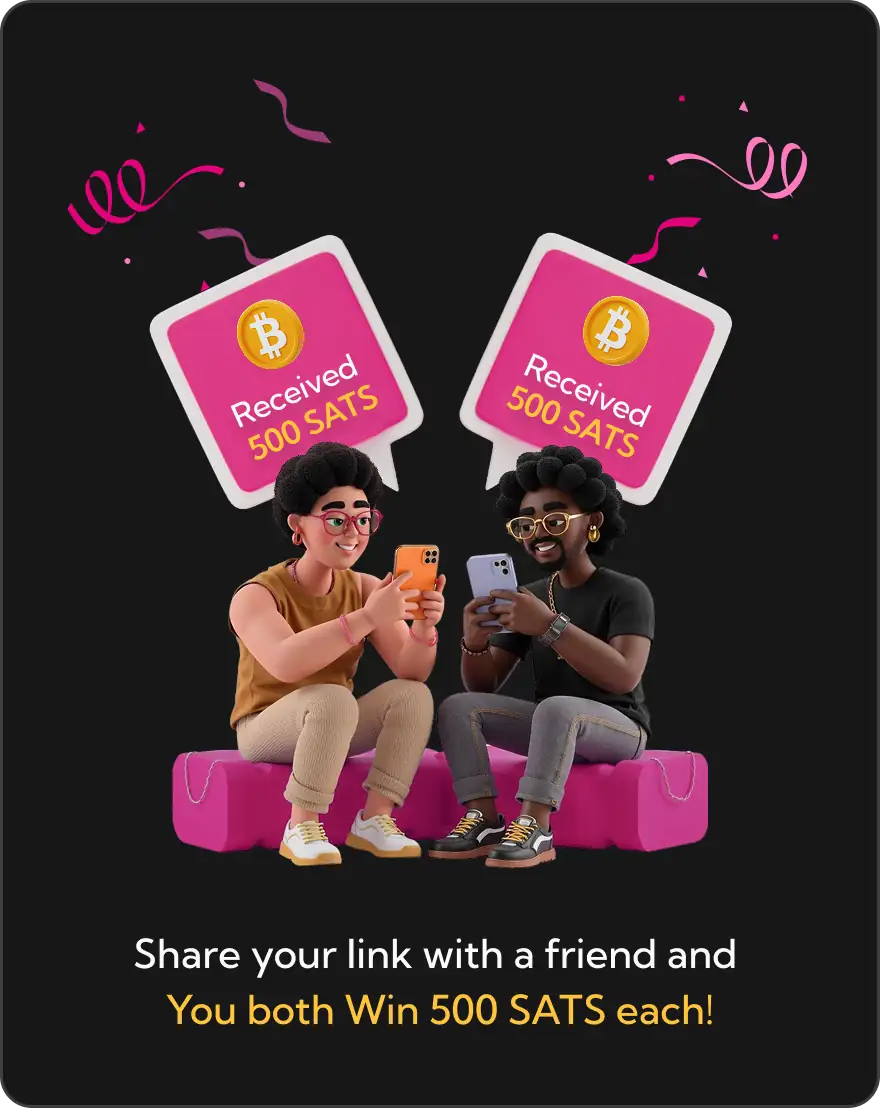
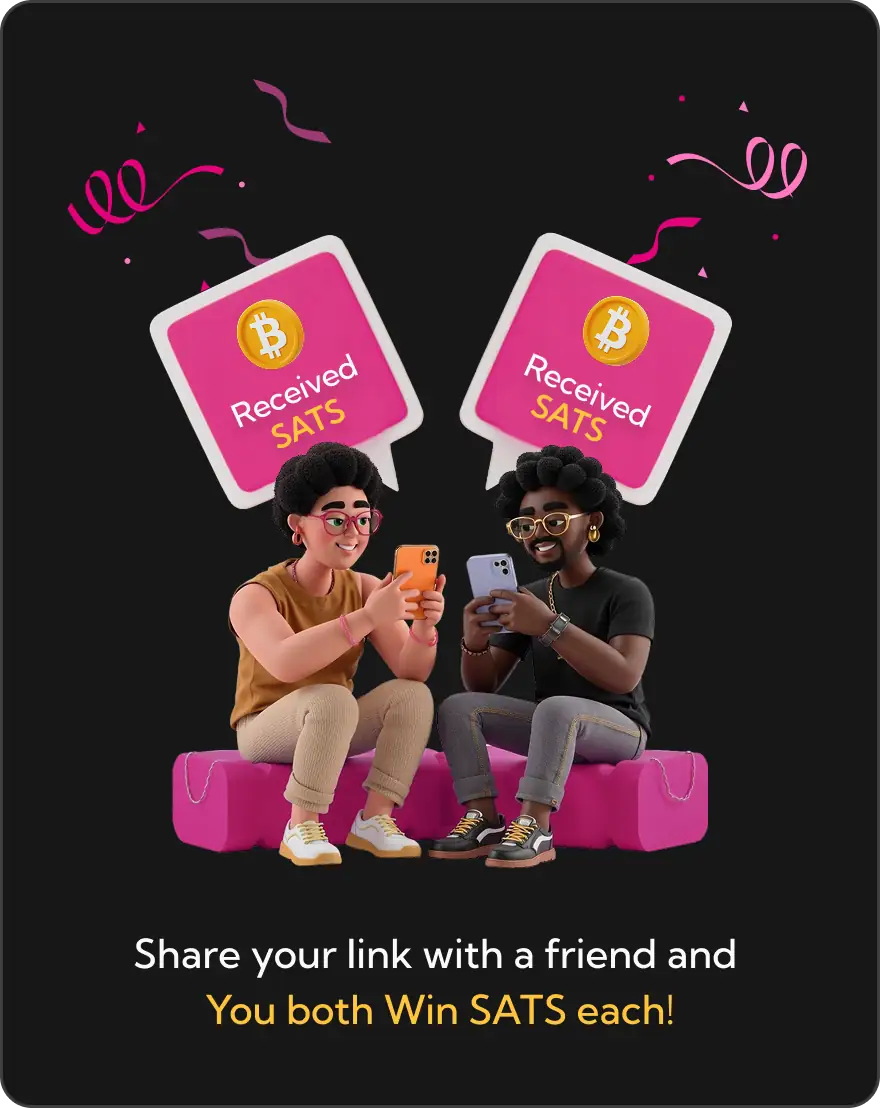
Update opengraph image for referral (#889)
* fix design

* update img

* update img

Changed region(s): [[0.1841, 0.8899, 0.7977, 0.9513], [0.583, 0.3375, 0.7364, 0.4296], [0.2761, 0.3375, 0.4295, 0.4296]]

diff --git a/ssr/src/page/src/refer_earn/mod.rs b/ssr/src/page/src/refer_earn/mod.rs
@@ -157,11 +157,11 @@ fn ReferView() -> impl IntoView {
     Refer.send_event(auth_state.event_ctx());
 
     view! {
-        <div class="flex flex-col w-full h-full items-center text-white gap-10">
+        <div class="flex flex-col w-full h-full items-center text-white gap-5">
             <div class="absolute inset-x-0 top-0 z-0 w-full max-w-md mx-auto" style="filter: blur(1.5px);">
                 <img src="/img/common/refer-bg.webp" class="w-full object-cover" />
             </div>
-            <div style="height: 19rem;" class="flex z-[1] relative justify-center w-full items-center gap-4 overflow-visible">
+            <div style="height: 14rem;" class="flex z-[1] relative justify-center w-full items-center gap-4 overflow-visible">
                 <img class="shrink-0 h-32 select-none" src="/img/common/wallet.webp" />
                 <img src="/img/common/bitcoin.webp" class="absolute top-8 left-5 size-6" style="filter: blur(1px); transform: rotate(30deg);" />
                 <img src="/img/common/bitcoin.webp" class="absolute top-16 right-3 size-6" style="filter: blur(1px); transform: rotate(40deg);" />
@@ -177,7 +177,7 @@ fn ReferView() -> impl IntoView {
                     <ReferCode />
                 </Show>
             </div>
-            <div class="flex flex-col w-full z-[1] items-center gap-8 mt-4 pb-5">
+            <div class="flex flex-col w-full z-[1] items-center gap-6 mt-2 pb-5">
                 <span class="font-xl font-semibold">How it works?</span>
                 <div class="flex flex-row gap-4 text-center">
                     <WorkButton
@@ -207,7 +207,7 @@ pub fn ReferEarn() -> impl IntoView {
     view! {
         <Title text=page_title.clone() />
 
-        <div class="flex flex-col items-center min-w-dvw min-h-dvh bg-black pt-2 pb-12 gap-6">
+        <div class="flex flex-col items-center min-w-dvw min-h-dvh bg-black pt-2 pb-12">
             <TitleText justify_center=false>
                 <div class="flex flex-row justify-between">
                     <BackButton fallback="/menu".to_string() />
